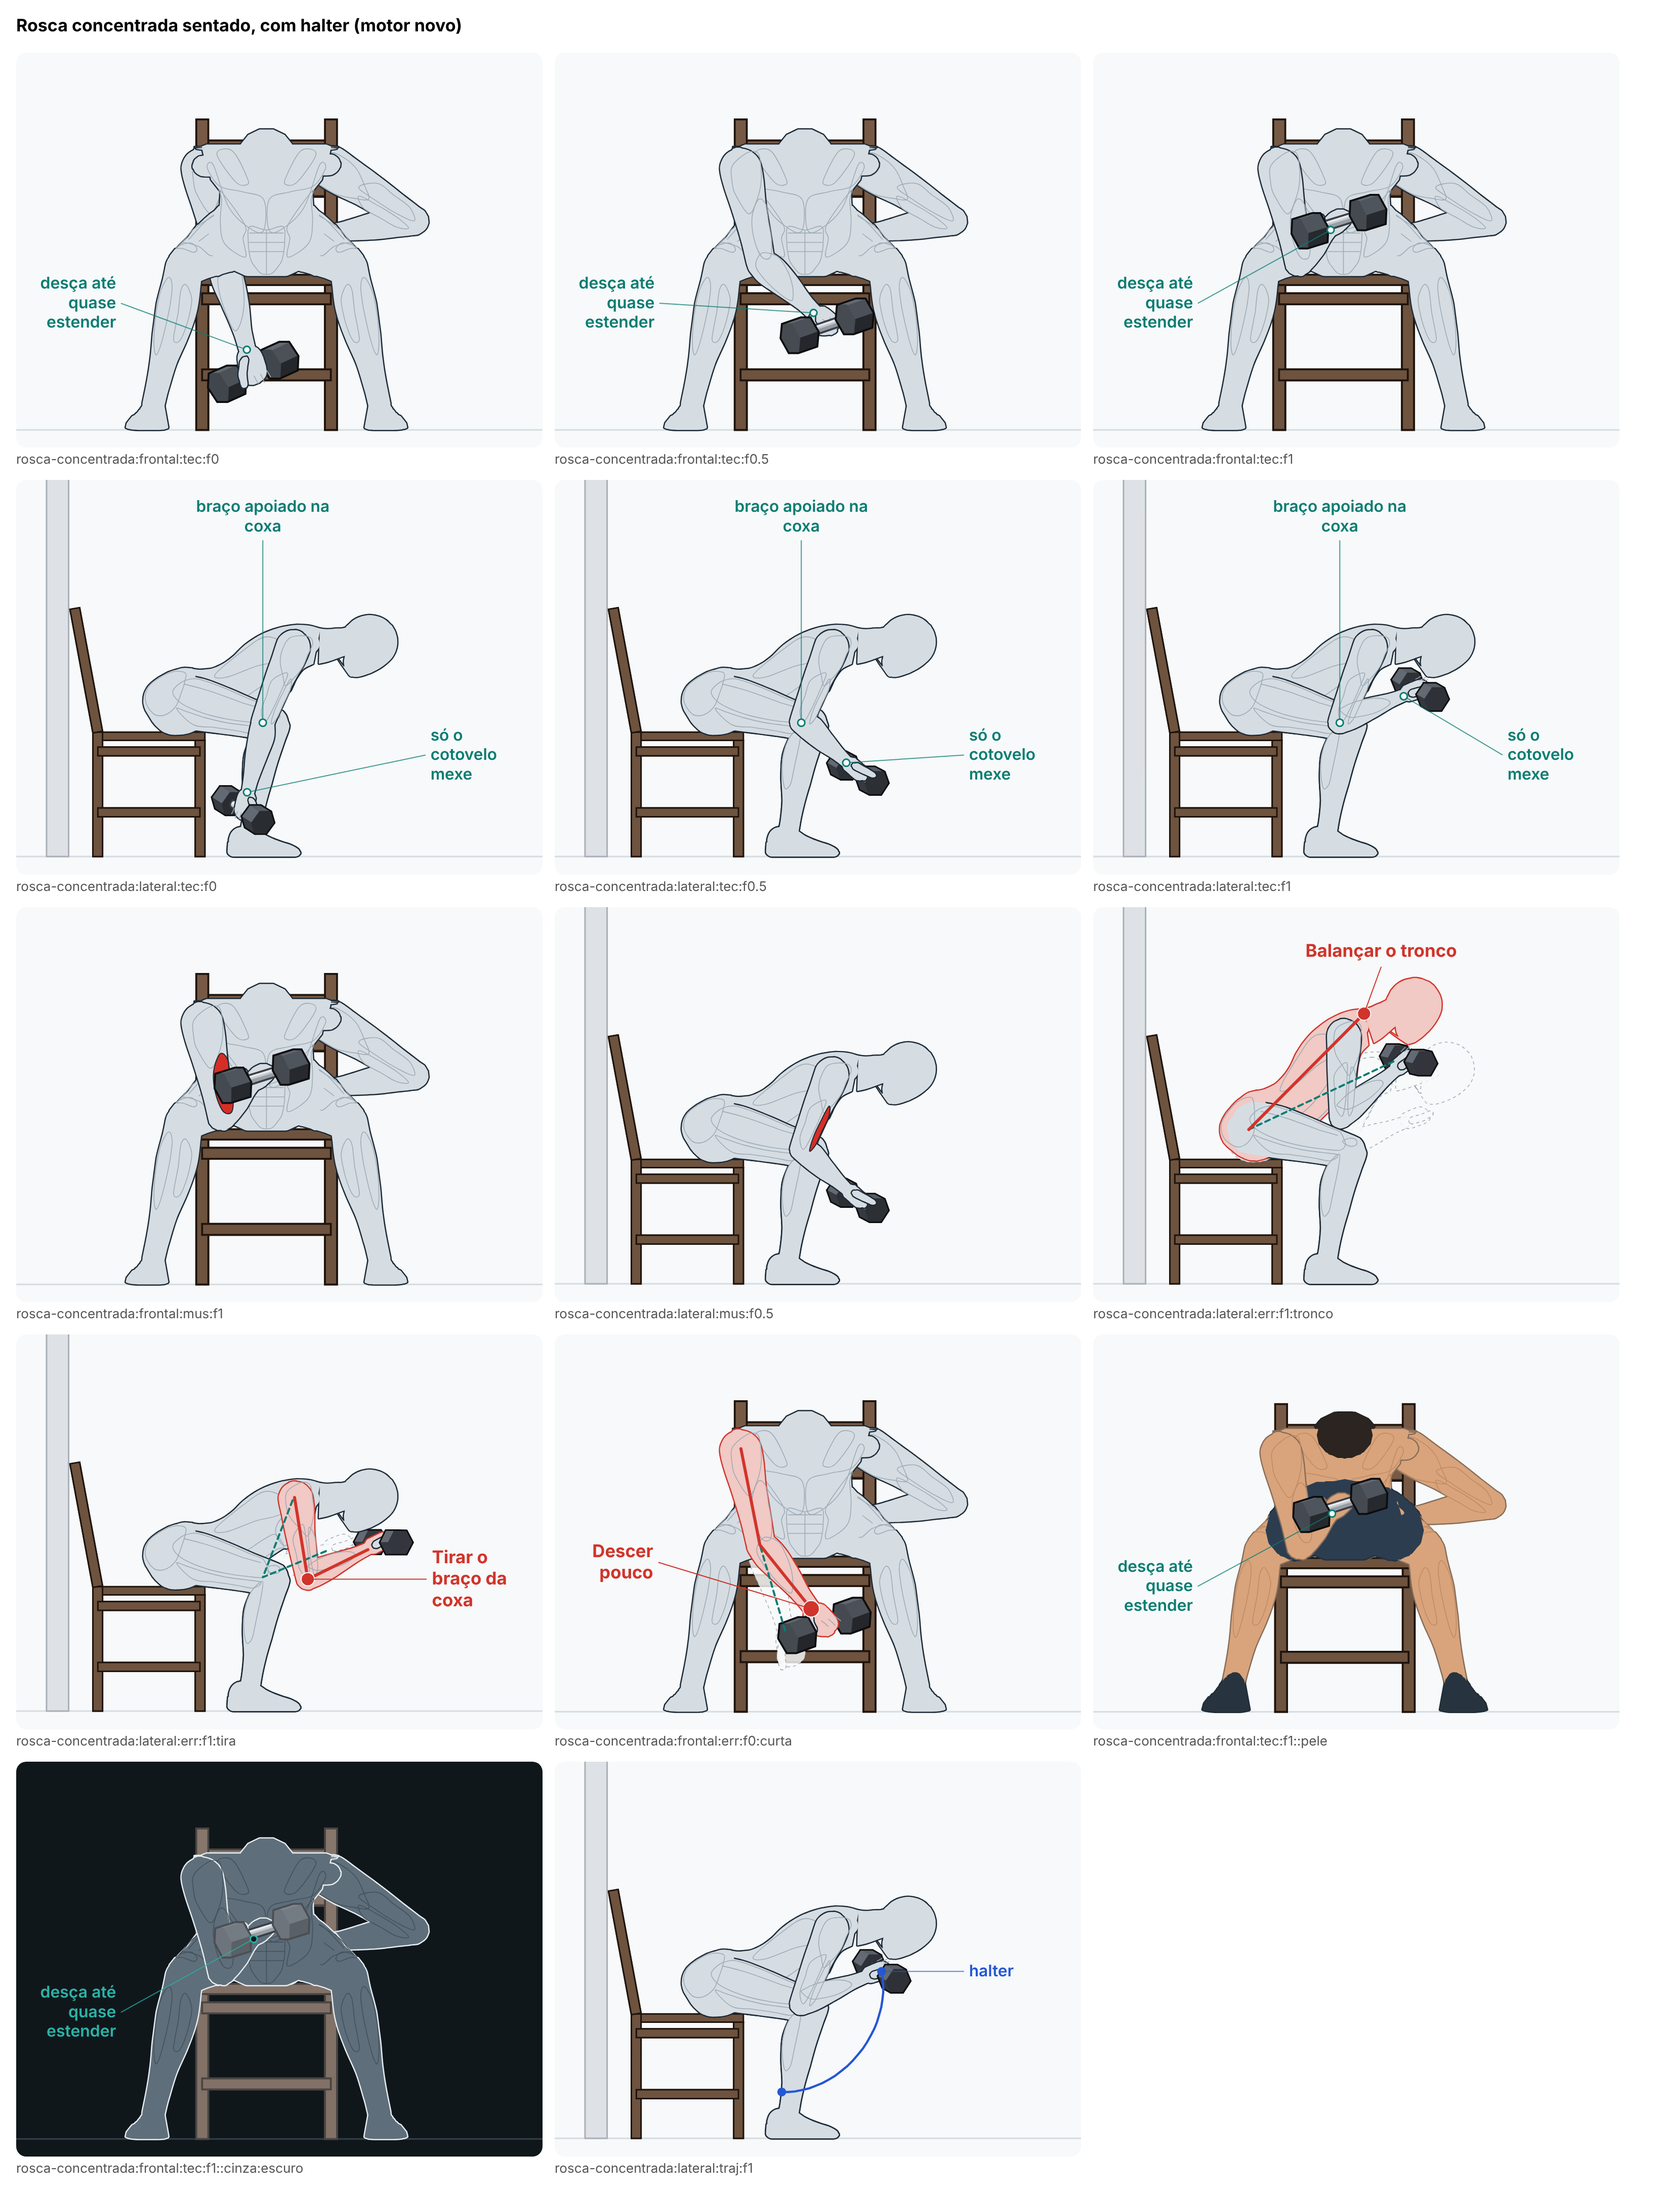
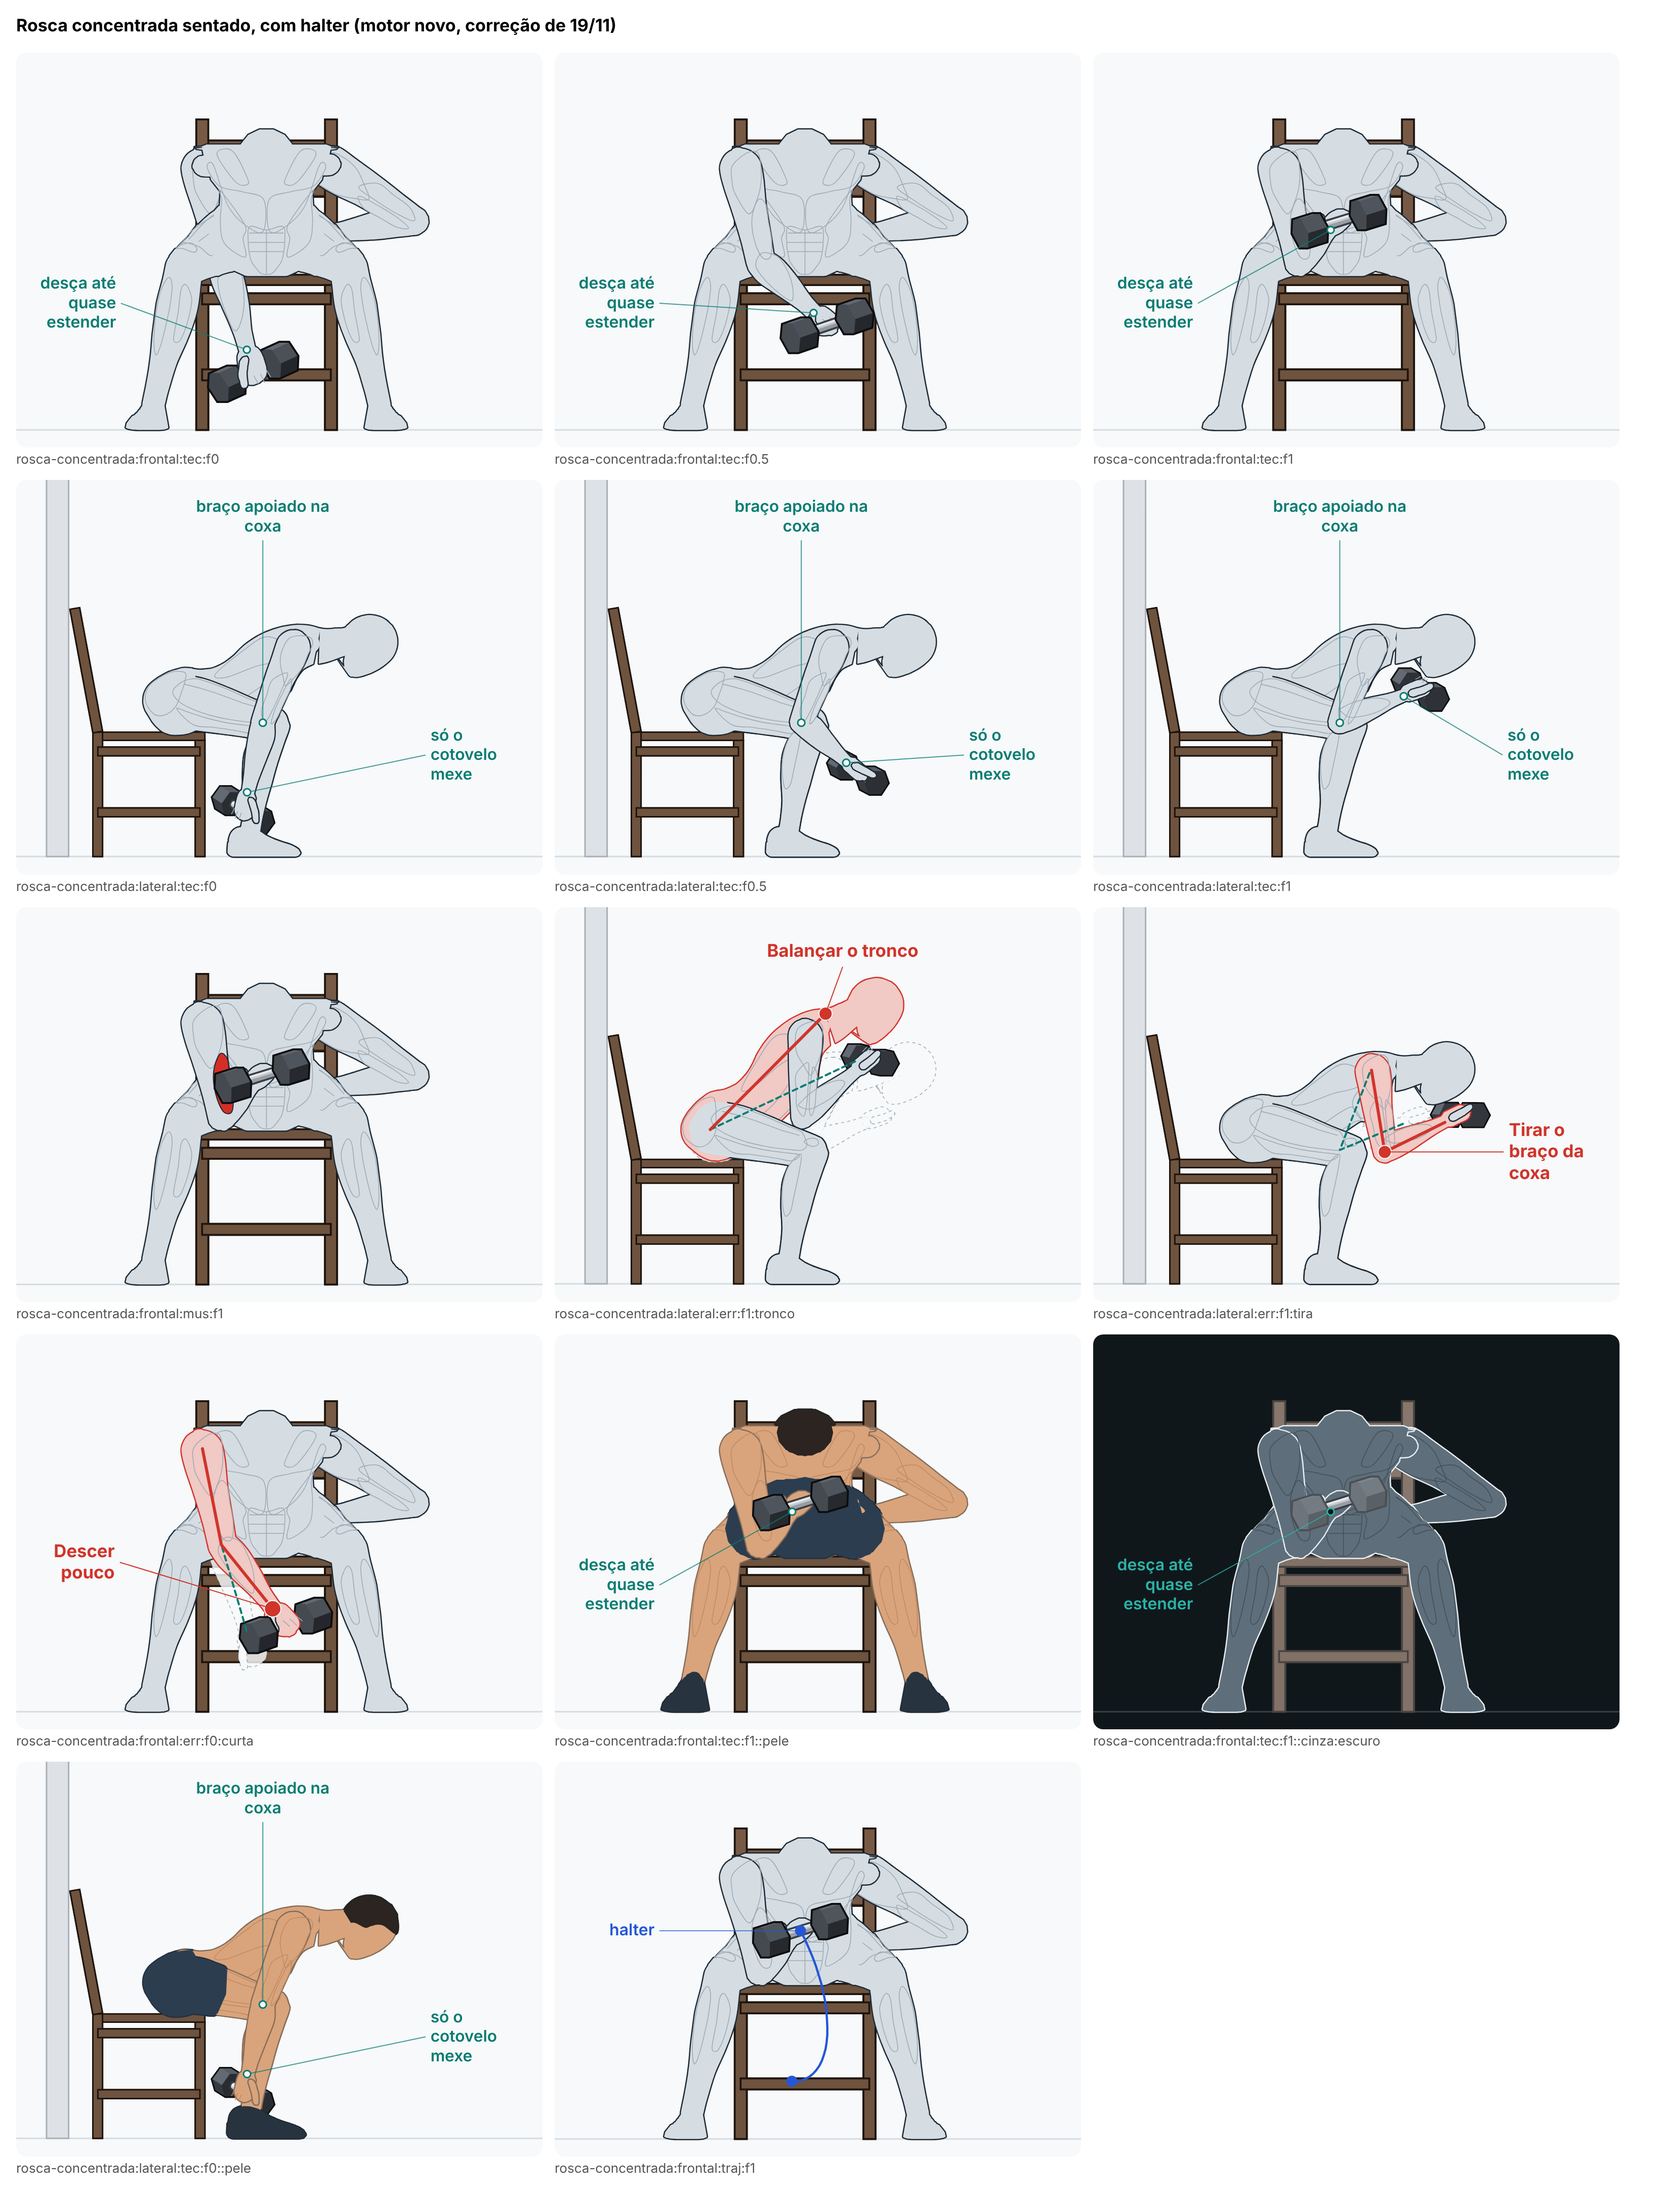
Corrige o halter por cima da canela de perto na rosca concentrada
De lado, embaixo, a cabeça de perto do halter era pintada até 11,4 cm à
frente do corpo, por cima da canela de perto. O corpo e o braço que
trabalha vêm 15 cm para a frente do halter nessa vista, juntos; sai o
pernaR: 30, que não fazia nada. Regra nova
rosca-concentrada-halter-pintado-no-lugar.

Claude-Session: https://claude.ai/code/session_01YRzts8DBGbsca9onebcMt1

diff --git a/src/engine/novo/exercicios/rosca-concentrada.ts b/src/engine/novo/exercicios/rosca-concentrada.ts
@@ -208,11 +208,23 @@ function quadro(corpo: Corpo, u: number, erro?: string): Quadro {
     cargas: [{ massa: f('carga'), pos: H.centro }],
     marcas: { halter: e.lado.R.pegada, piso: [0, 0, 0], assento: [0, A.altura, A.zBorda] },
     vies: { maoR: 1 },
-    // de lado, o braço que trabalha fica por dentro da coxa direita, que está mais perto de quem olha: a perna direita é
-    // pintada por cima do braço (senão o braço parecia apoiado por fora da coxa)
-    viesNaVista: { lateral: { pernaR: 30 } },
+    // De lado, embaixo, o halter pende entre as pernas, de 13 a 18 cm atrás da canela de perto, e era pintado por cima
+    // dela: a cabeça de perto do halter (pintada pela profundidade do meio dela) ficava à frente do item do corpo, que
+    // leva o tronco e as pernas de perto juntos e é pintado pela média deles. O corpo e o braço que trabalha vêm para a
+    // frente do halter na pintura, juntos (o braço continua por cima do corpo, como antes); a regra
+    // rosca-concentrada-halter-pintado-no-lugar mede, nos dois lados e nas duas vistas. (O `pernaR: 30` de antes não
+    // fazia nada: a perna de perto não é pintada à parte, mas no item do corpo. O braço fica por dentro da coxa e na
+    // frente da cintura; com um item só para as duas, o desenho continua com o braço por cima das duas, como foi
+    // aprovado.)
+    viesNaVista: { lateral: { corpo: VIES_DE_LADO, bracoR: VIES_DE_LADO } },
   };
 }
+
+/**
+ * Quanto o corpo e o braço que trabalha vêm para a frente do halter na pintura, de lado (cm de profundidade): a cabeça
+ * de perto do halter chegava a 11,4 cm à frente do corpo, embaixo; com 15 cm, o corpo passa a ela com 3,6 cm de folga.
+ */
+const VIES_DE_LADO = 15;
 
 export const roscaConcentrada: Exercicio = {
   ficha: F,

diff --git a/src/engine/novo/regras/rosca-concentrada.ts b/src/engine/novo/regras/rosca-concentrada.ts
@@ -5,11 +5,24 @@
 // ./rosca-scott.ts), o halter no alto e a outra mão. O limite vem do que a ficha pede, não do que a pose deu.
 import { f1, faixa } from '../conferir-util';
 import type { Regra } from '../conferir-util';
-import { bracoNaCoxa } from '../exercicios/rosca-concentrada';
+import { bracoNaCoxa, roscaConcentrada } from '../exercicios/rosca-concentrada';
 import { distanciaEntre } from '../exercicios/sentado-na-ponta';
 import { dist } from '../vec';
+import { partesDoHalter, regraDePintura } from './ordem-de-pintura';
 
 export const REGRAS_ROSCA_CONCENTRADA: Record<string, Regra> = {
+  // O halter (o cabo e as duas cabeças) contra o corpo, nos dois lados, em cada vista do guia (acréscimo de 19/11,
+  // auditoria das fases A e B): de lado, embaixo, o halter, que pende entre as pernas, era pintado por cima da canela de
+  // perto, que fica de 13 a 18 cm mais perto de quem olha. A mão fecha no cabo e não conta.
+  'rosca-concentrada-halter-pintado-no-lugar': regraDePintura({
+    exercicio: () => roscaConcentrada,
+    nome: 'o halter',
+    fora: ['mao', 'polegar'],
+    peca: (q) => {
+      const p = q.pecas?.find((x) => x.t === 'halter');
+      return p && p.t === 'halter' ? [{ peca: p, partes: partesDoHalter(p) }] : [];
+    },
+  }),
   'rosca-concentrada-braco-na-coxa': (q) => {
     // a cada 3 quadros: a parte de trás do braço encosta por dentro da coxa direita (não descola mais de meio
     // centímetro) e não a atravessa (amassa até 2,5 cm, a tolerância da conferência para o corpo no estofado); o

diff --git a/docs/revisoes/animacao-nova/lote-A4/rosca-concentrada.md b/docs/revisoes/animacao-nova/lote-A4/rosca-concentrada.md
@@ -57,3 +57,18 @@ A ficha da técnica dá só o essencial (braço apoiado por dentro da coxa; só 
 - **De lado, o halter embaixo é pintado por cima da canela direita**, embora esteja atrás dela (a ordem de pintura do halter não segue a da perna). Não é uma peça atravessando a outra, mas parece o halter na frente da perna.
 - **O braço esquerdo** sai um pouco para fora (o cotovelo aponta para fora e para baixo): é a pose comum de quem apoia a mão na coxa, mas lembra uma asa no quadro de frente.
 - O plano do antebraço (`rosca.plano`, 60° do lado de dentro para a frente) é desenho: com o bíceps virado só para dentro, o halter batia na perna esquerda no meio da subida.
+
+## Correção de 19/11 (auditoria)
+
+A auditoria das fases A e B (M9) achou que, de lado, embaixo, o halter, que pende entre as pernas, era pintado por cima da canela de perto, que fica de 13 a 18 cm mais perto de quem olha. **Causa:** a cabeça de perto do halter, pintada pela profundidade do meio dela, ficava até 11,4 cm à frente do item do corpo (o tronco com as pernas de perto, pintado pela média deles).
+
+**O que mudou.** Só no exercício: `viesNaVista` de lado traz o corpo e o braço que trabalha 15 cm para a frente do halter na pintura, juntos (o braço continua por cima do corpo, como antes). O `pernaR: 30` que estava ali saiu: ele não fazia nada, porque a perna de perto não é pintada à parte, mas no item do corpo. A regra nova `rosca-concentrada-halter-pintado-no-lugar` mede o cabo e as duas cabeças do halter contra cada parte do corpo, dos dois lados, nas duas vistas (a mão, no cabo, não conta).
+
+**Antes → depois** (pior quadro, cm de folga de pintura): de lado, a perna direita, que esconde o halter, −11,4 → 3,6; o braço direito 17,6 → 32,6; a perna esquerda (atrás dele) 13,5, sem mudança. De frente, nada muda (o halter fica na frente do tronco, das pernas e dos braços: 4,1 a 28,7). A regra falha no estado antigo e passa no novo; a conferência automática dá 0 falha e os mesmos 3 avisos.
+
+Como a ordem de pintura é medida (a regra nova, com o núcleo em `src/engine/novo/regras/ordem-de-pintura.ts`): em cada vista do guia (as do exercício e as dos erros), a cada 3 quadros do movimento certo e em cada erro no começo, no meio e no fim, um raio sai de cada ponto do eixo da peça até quem olha e de cada ponto da pele virada para quem olha (a 85% do raio) até quem olha; se ele atravessa o corpo (os dois lados, cada grupo à parte), aquela parte do corpo tem de ser pintada depois do item que pinta a peça; se atravessa a peça, antes. A folga é a diferença de profundidade de pintura (cm; negativa = ordem errada). Contam só os cruzamentos de 4 pontos ou mais; a pele que fica dentro de outra parte do corpo ou dentro da própria peça não conta; quando a mesma parte esconde e é escondida pela mesma peça, vale o lado com mais pontos.
+
+**O que ainda não ficou bom.**
+- **De lado, o braço que trabalha continua por cima da coxa direita**, embora fique por dentro dela (medido pelo raio: a coxa e a canela escondem de 100 a 240 pontos do braço). O braço também fica na frente da cintura (esconde 150 pontos dela), e as duas, a coxa e a cintura, são o mesmo item do Boneco: o pintor só acerta uma. Pintar o braço atrás do corpo escondia o braço quase inteiro de lado, junto com o bíceps; ficou como foi aprovado. O comentário antigo do exercício dizia o contrário (o `pernaR: 30`), e estava errado.
+- **A mão cobre a borda da cabeça de perto do halter** de lado: antes isso acontecia no meio do movimento; agora também embaixo e em cima.
+- Vista de cima: o exercício não a declara (as vistas são de frente e de lado, e os erros, de lado e de frente), então a cabeça que some de cima não se aplica aqui; não pus o `viesNaVista` de cima.
